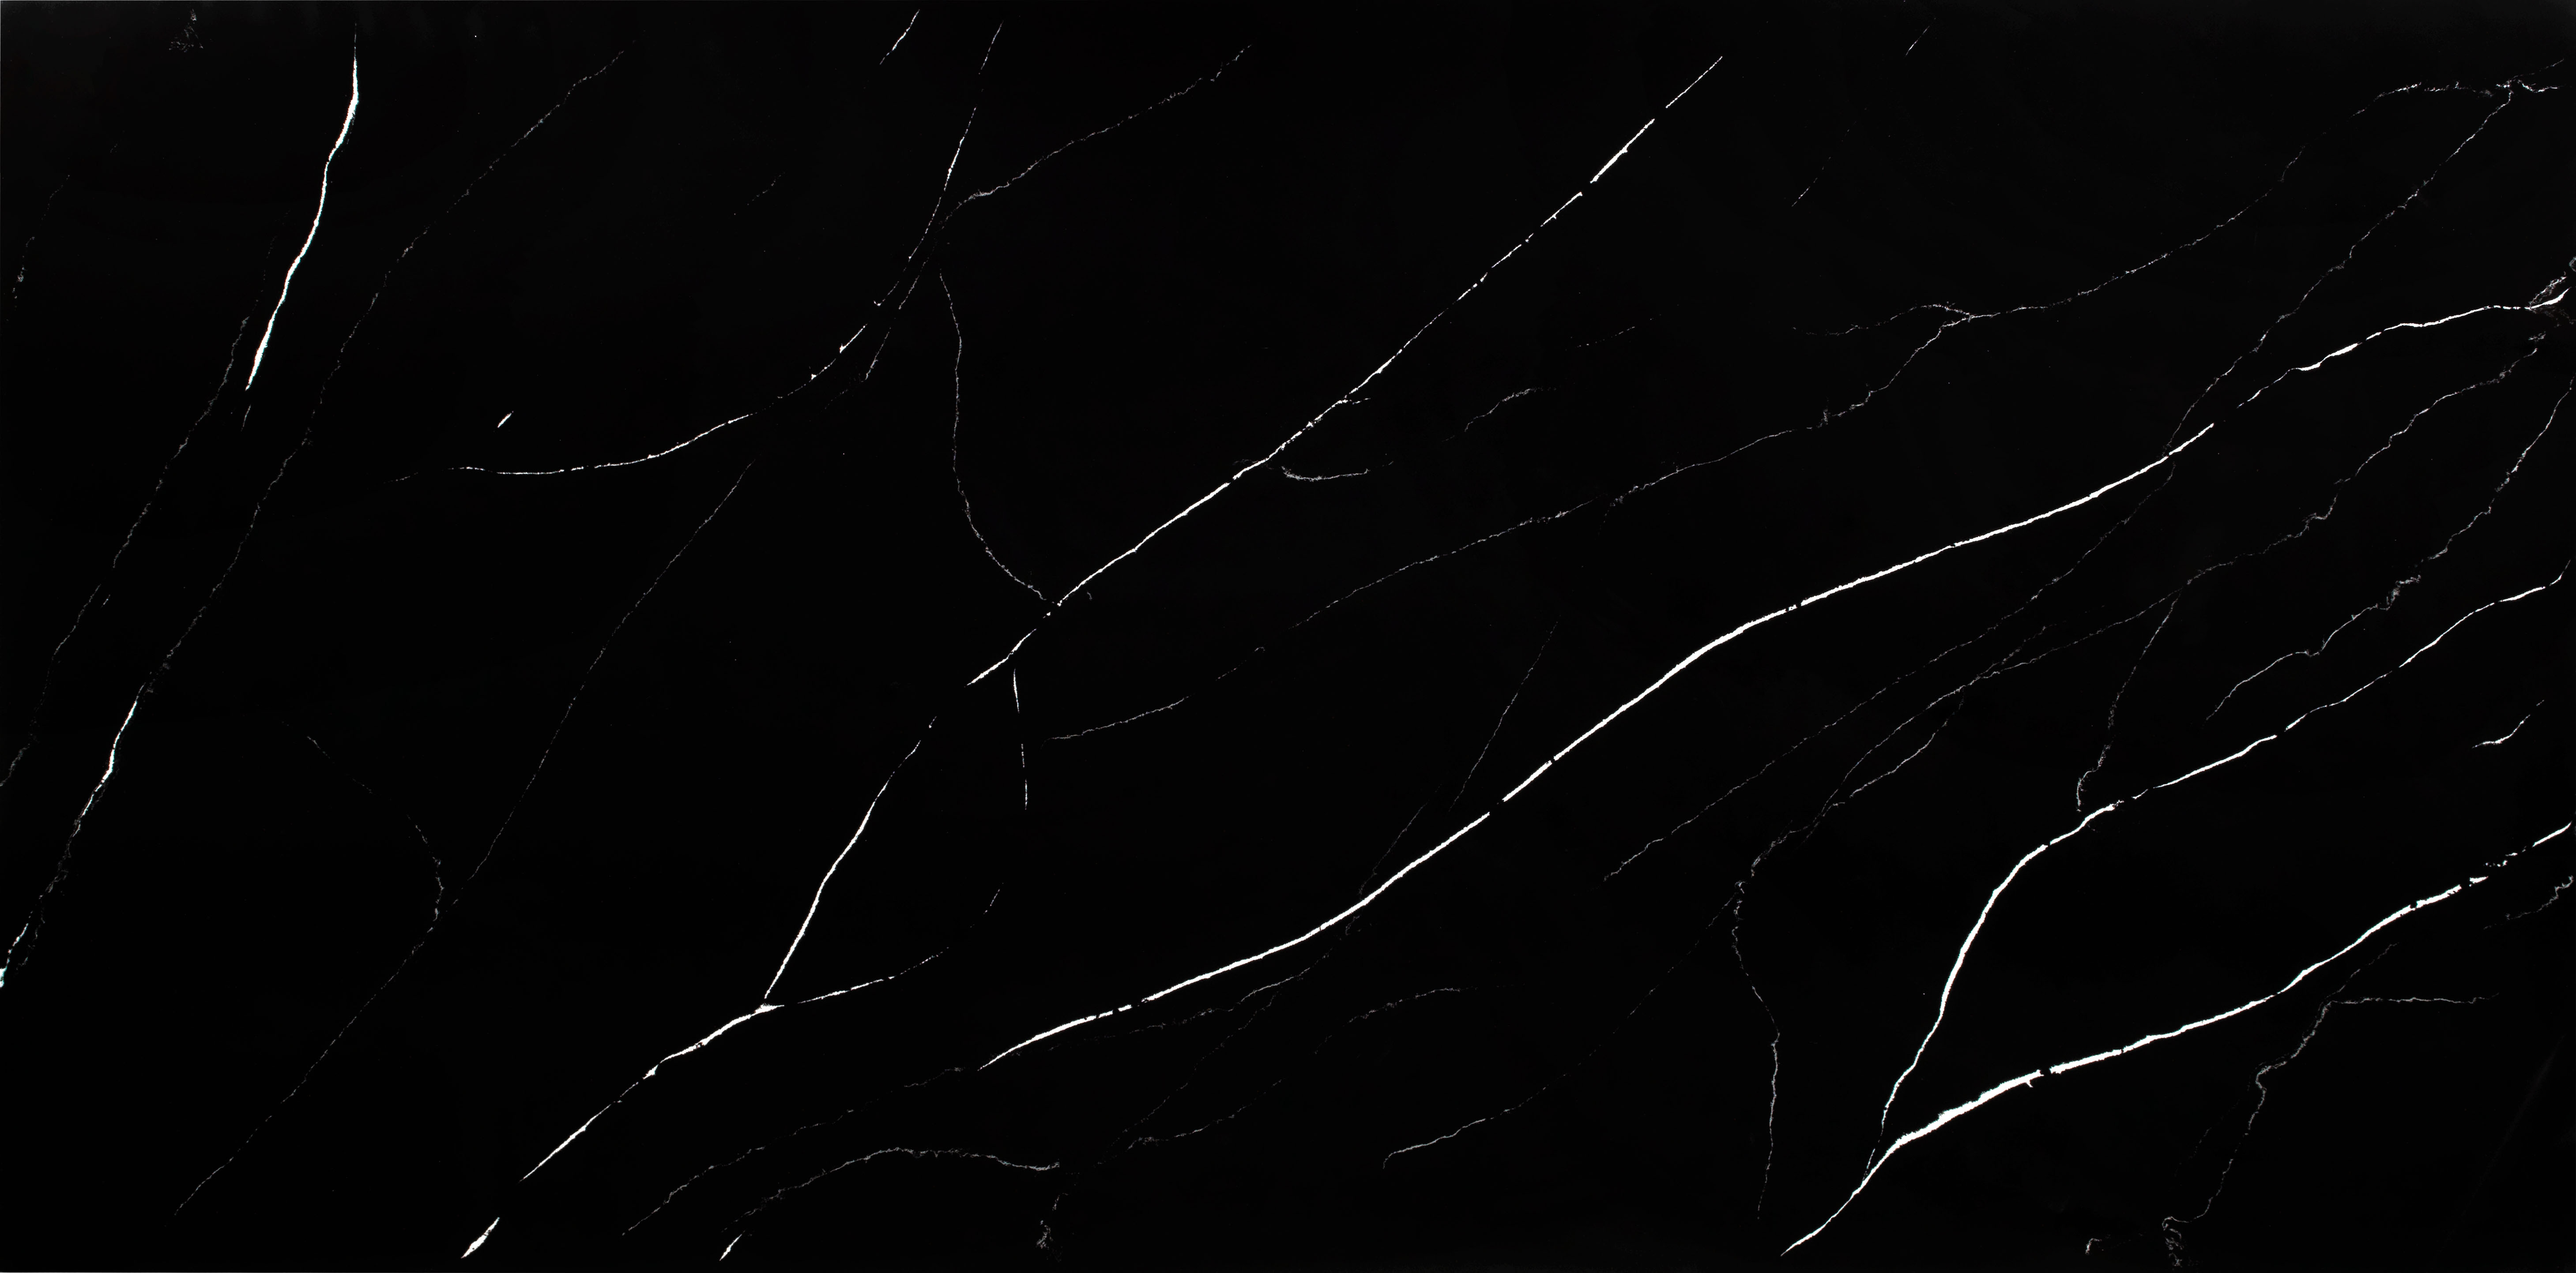
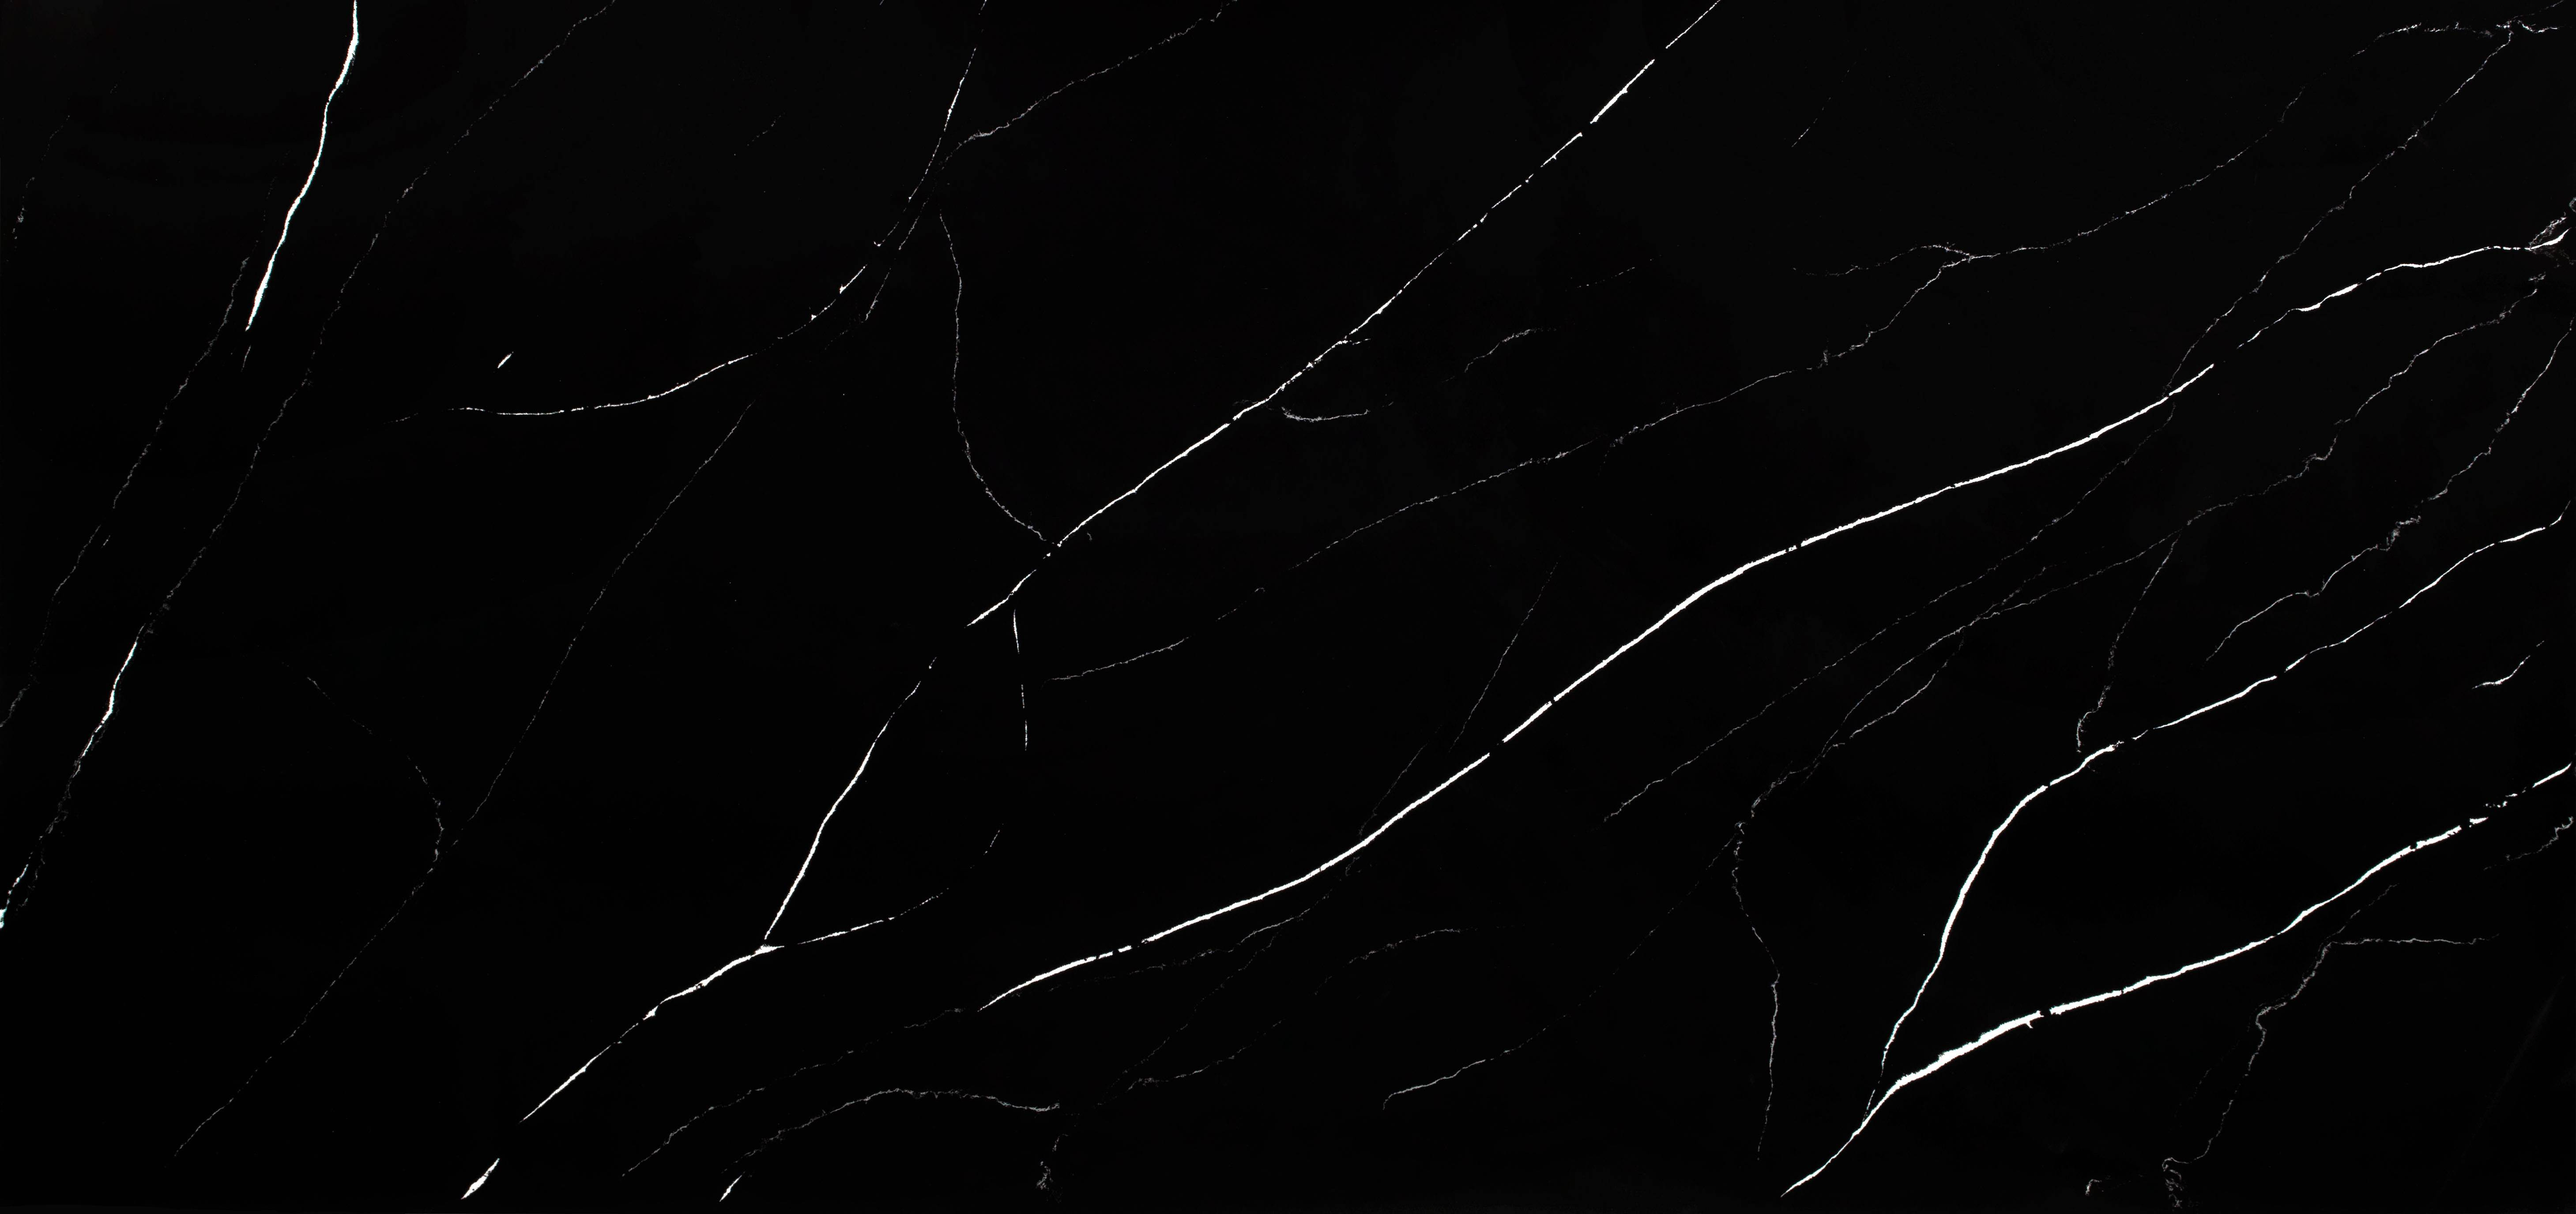
fix background

diff --git a/src/components/Rules/Rules.js b/src/components/Rules/Rules.js
@@ -1,0 +1,27 @@
+import * as React from "react"
+
+import * as styles from './Rules.module.css';
+
+const Rules = () => {
+    return (
+        <div className={styles.wrapper}>
+            <p className={styles.title}>Rules</p>
+
+            <div className={styles.infoWrapper}>
+                <p className={styles.text}>Наша студія дорожить своїм статусом і поважає репутацію кожного відвідувача, тому наполегливо просимо вас дотримуватися правил відвідування, встановлені нашим закладом, і враховувати деякі нюанси.</p>
+                <ul className={styles.rulesList}>
+                    <li className={styles.goldenText}>
+                        <span>Наші відвідувачі - виключно люди, які досягли 18 років.</span>
+                    </li>
+                    <li className={styles.textPlayfair}>Наші відвідувачі - виключно люди, які досягли 18 років.</li>
+                    <li className={styles.textPlayfair}>Наші відвідувачі - виключно люди, які досягли 18 років.</li>
+                    <li className={styles.text}>Наші відвідувачі - виключно люди, які досягли 18 років.</li>
+                    <li className={styles.text}>Наші відвідувачі - виключно люди, які досягли 18 років.</li>
+                    <li className={styles.text}>Наші відвідувачі - виключно люди, які досягли 18 років.</li>
+                </ul>
+            </div>
+        </div>
+    )
+}
+
+export default Rules;

diff --git a/src/components/Rules/Rules.module.css b/src/components/Rules/Rules.module.css
@@ -1,0 +1,61 @@
+.wrapper {
+    width: 100%;
+    margin-top: 32px;
+    background-color: black;
+    color: aliceblue;
+    display: flex;
+    flex-direction: column;
+    align-items: center;
+    padding-bottom: 200px;
+}
+
+.title {
+    margin-top: 8px;
+    font-family: 'Raleway', sans-serif;
+    font-size: 46px;
+}
+
+.infoWrapper {
+    padding-top: 64px;
+}
+
+.text {
+    font-size: 24px;
+    font-family: 'Raleway', serif;
+    line-height: 32px;
+}
+
+.textPlayfair {
+    font-size: 24px;
+    font-family: 'Playfair Display', serif;
+    line-height: 32px;
+}
+
+.rulesList {
+    margin-top: 16px;
+    margin-left: 24px;
+    list-style: none;
+}
+
+.goldenText {
+    font-size: 24px;
+    font-family: 'Raleway', sans-serif;
+    line-height: 32px;
+}
+
+.goldenText span {
+    background: linear-gradient(to bottom, #cfc09f 22%, #634f2c 24%, #cfc09f 26%, #cfc09f 27%, #ffecb3 40%, #3a2c0f 78%);
+    background-clip: text;
+    -webkit-text-fill-color: transparent;
+}
+
+.rulesList li::before {
+    content: "\2022";
+    background: linear-gradient(to bottom, #cfc09f 22%, #634f2c 24%, #cfc09f 26%, #cfc09f 27%, #ffecb3 40%, #3a2c0f 78%);
+    background-clip: text;
+    -webkit-text-fill-color: transparent;
+    font-weight: bold;
+    display: inline-block;
+    width: 1em;
+    margin-left: -1em;
+}

diff --git a/src/pages/index.js b/src/pages/index.js
@@ -7,6 +7,7 @@ import AboutUs from "../components/AboutUs/AboutUs";
 import InterierGalery from "../components/InterierGalery/InterierGalery";
 import Ladies from "../components/Ladies/Ladies";
 import GradientLine from "../components/GradientLine/GradientLine";
+import Rules from "../components/Rules/Rules";
 import Seo from "../components/seo"
 import * as styles from "../components/index.module.css"
 
@@ -27,6 +28,10 @@ const IndexPage = () => (
         <GradientLine />
       </div>
       <InterierGalery />
+      <div className={styles.lineWrapper}>
+        <GradientLine />
+      </div>
+      <Rules />
     </BaseLayout>
 
   </div>

diff --git a/src/components/index.module.css b/src/components/index.module.css
@@ -8,8 +8,8 @@
 .mainWrapper {
   height: 100%;
   background-image: url('../images/bg.jpg');
-  background-repeat: no-repeat;
-  background-size: cover;
+  /* background-repeat: no-repeat; */
+  background-size: contain;
 }
 
 .lineWrapper {
